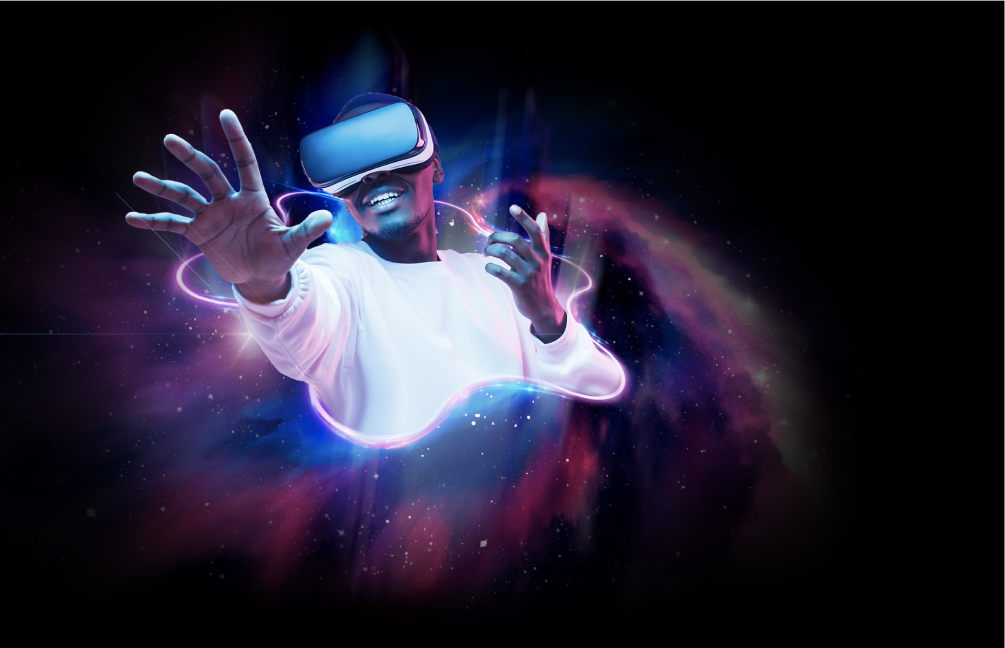
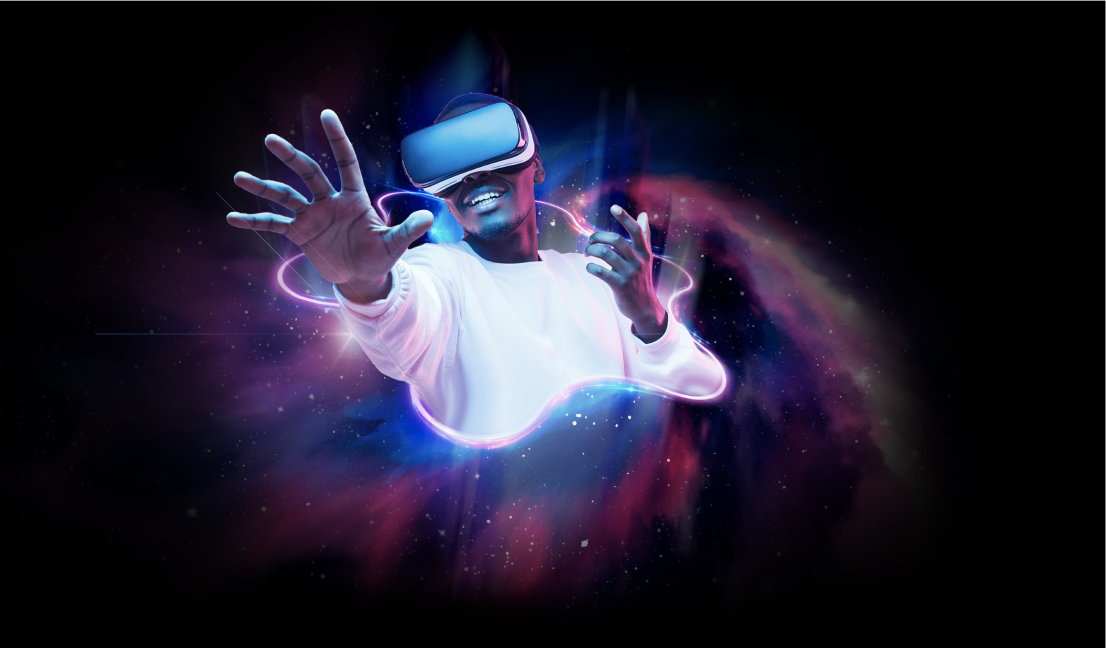
update ui

diff --git a/src/app/pages/dashboard/dashboard.component.scss b/src/app/pages/dashboard/dashboard.component.scss
@@ -16,12 +16,14 @@
     mix-blend-mode: screen;
     .img-main {
         mix-blend-mode: screen;
-        margin-top: 50px;
+        top: 75px;
+        left: -130px;
+        position: absolute;
     }
     .img-animation {
         position: absolute;
-        top: 0;
-        left: -69px;
+        top: -30px;
+        left: -130px;
         animation: bonben1 5s linear 2s infinite reverse;
     }
 }
@@ -449,16 +451,69 @@ marquee {
     width: 79px;
 }
 
+.title {
+    text-align: right;
+}
+
+.sub-tit {
+    color: #fff;
+    font-weight: 600;
+    font-style: normal;
+    font-size: 35px;
+    line-height: 70px;
+    font-family: "Poppins", sans-serif;
+}
+
+.content-tit {
+    text-align: right;
+    width: 80%;
+}
+
 @media only screen and (max-width: 600px) {
     .section-1 {
         padding: 0;
+        min-height: unset;
+        padding-bottom: 30px;
     }
     .img-bannner {
+        min-height: 333px;
         .img-main {
-            margin-left: 10%;
+            top: 40px;
+            left: -155px;
+            position: absolute;
+            width: 750px;
         }
         .img-animation {
-            left: 0;
+            left: -135px;
+            top: -35px;
+            width: 600px;
+        }
+    }
+    .text-top {
+        align-items: center;
+        .title {
+            font-family: Poppins;
+            font-style: normal;
+            font-weight: 600;
+            font-size: 32px;
+            line-height: 40px;
+            text-align: center;
+            letter-spacing: -1px;
+        }
+        .sub-tit {
+            font-size: 28px;
+            font-weight: 600;
+            font-size: 32px;
+            line-height: 40px;
+            text-align: center;
+            letter-spacing: -1px;
+        }
+        .content-tit {
+            font-size: 14px;
+            line-height: 21px;
+            text-align: center;
+            letter-spacing: 0.5px;
+            text-transform: uppercase;
             width: 100%;
         }
     }

diff --git a/src/styles.scss b/src/styles.scss
@@ -168,15 +168,7 @@ h1 {
     line-height: 40px;
     font-family: "Poppins", sans-serif;
 }
-.sub-tit{
-    color: #fff;
-    font-weight: 600;
-    font-style: normal;
-    font-size: 35px;
-    line-height: 70px;
-    font-family: "Poppins", sans-serif;
 
-}
 h2 {
     font-weight: 700;
     font-style: normal;
@@ -227,10 +219,6 @@ p {
     background: linear-gradient(130.23deg, #ce4da4 23.87%, #8a79ff 100%), #c4c4c4;
 }
 
-.text-right {
-    text-align: right;
-}
-
 @media only screen and (max-width: 600px) {
     .aura-navbar {
         padding: 15px 0;
@@ -273,5 +261,38 @@ p {
     }
     .list-logo {
         flex-direction: column;
+    }
+    span {
+        font-weight: 700;
+        font-style: normal;
+        font-size: 14px;
+        line-height: 21px;
+        letter-spacing: 3.2px;
+        font-family: "Manrope", sans-serif;
+        color: #d4d4d4;
+        text-transform: uppercase;
+        padding-bottom: 30px;
+    }
+    h1,
+    h2 {
+        font-weight: 600;
+        font-size: 32px;
+        line-height: 40px;
+        text-align: center;
+        letter-spacing: -1px;
+        color: #FFFFFF;
+    }
+    p {
+        font-weight: 400;
+        font-style: normal;
+        font-size: 18px;
+        line-height: 27px;
+        font-family: "Poppins", sans-serif;
+        color: #d4d4d4;
+    }
+    .hl {
+        text-transform: uppercase;
+        color: #ffffff;
+        font-weight: bold;
     }
 }
